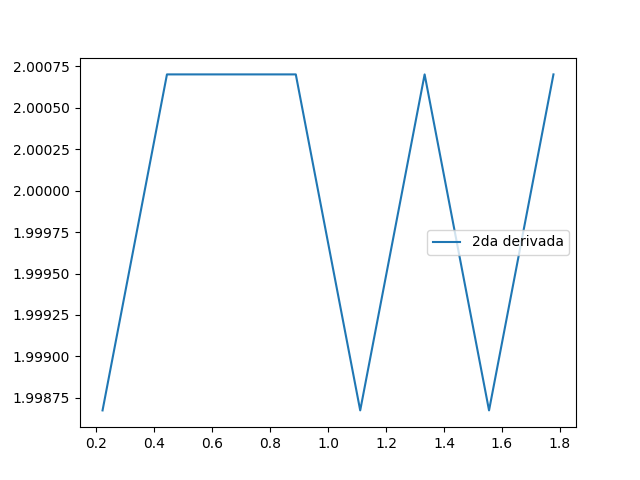
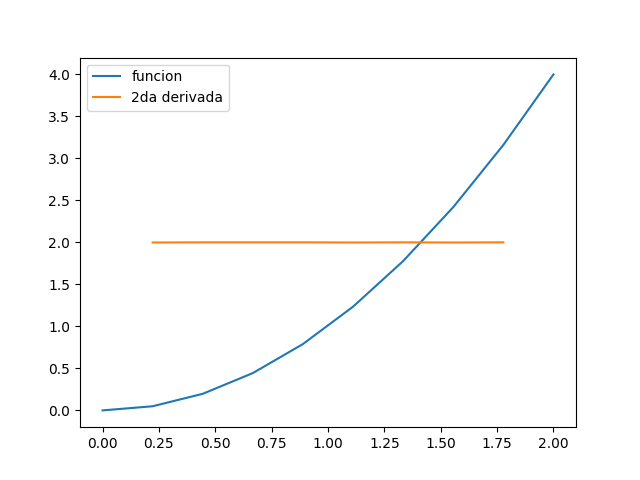
Final commit

diff --git a/ejercicio5.py b/ejercicio5.py
@@ -14,22 +14,29 @@ sigma=10.
 beta=2.67
 rho=28.0
 
-dt=0.1
-n=5./dt
-print(n)
-x=[1,0,0,0,0,0,0,0,0,0,0,0,0,0,0,0,0,0,0,0,0,0,0,0,0,0,0,0,0,0,0,0,0,0,0,0,0,0,0,0,0,0,0,0,0,0,0,0,0,0]
-y=[0,0,0,0,0,0,0,0,0,0,0,0,0,0,0,0,0,0,0,0,0,0,0,0,0,0,0,0,0,0,0,0,0,0,0,0,0,0,0,0,0,0,0,0,0,0,0,0,0,0]
-z=[0,0,0,0,0,0,0,0,0,0,0,0,0,0,0,0,0,0,0,0,0,0,0,0,0,0,0,0,0,0,0,0,0,0,0,0,0,0,0,0,0,0,0,0,0,0,0,0,0,0]
+dt=0.01
+n=int(5/dt)
 
-i=0
+x=np.zeros(n)
+y=np.zeros(n)
+z=np.zeros(n)
+x[0]=1
+y[0]=0
+z[0]=0
+
+i=1
 while i<n:
     x[i]=dt*(sigma*(y[i-1]-x[i-1])) +x[i-1] 
     y[i]=dt*((rho*x[i-1])- y[i-1] - (x[i-1]*z[i-1])) + y[i-1]
     z[i]=dt*((-beta*z[i-1])+(x[i-1]*x[i-1])) + z[i-1]
     i+=1
 print(x)
-plt.plot(np.array(x),np.array(y))
+plt.plot(x,y)
 plt.savefig('xy.png')
+plt.close()
+plt.plot(x,z)
+plt.savefig('xz.png')
+
 
 
 

diff --git a/ejercicio1.py b/ejercicio1.py
@@ -14,7 +14,7 @@ h=x[1]-x[0]
 #deriv1=(fx[1:]-fx[:-1])/h
 deriv2=(fx[2:]-(2*fx[1:-1])+fx[:-2])/(h**2)
 #deriv2=(deriv1[1:]-deriv1[:-1])/h
-#plt.plot(x,fx,label='funcion')
+plt.plot(x,fx,label='funcion')
 #plt.plot(x[1:],deriv1,label='1ra derivada')
 plt.plot(x[1:-1],deriv2,label='2da derivada')
 plt.legend()
